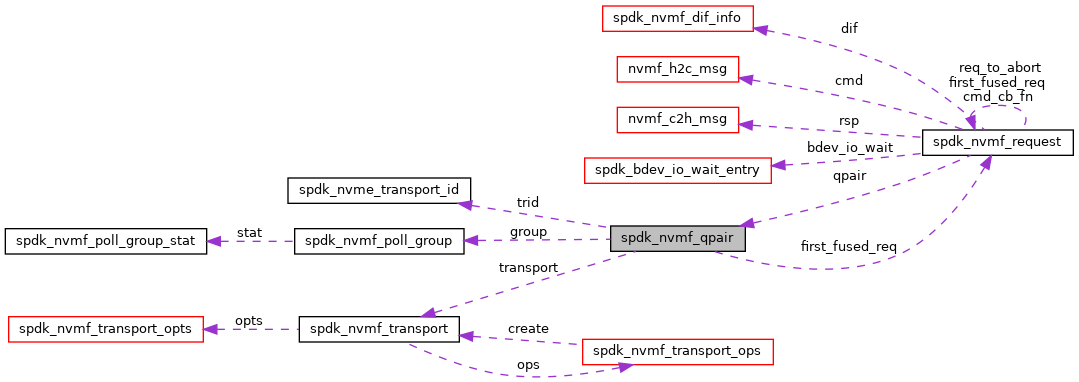
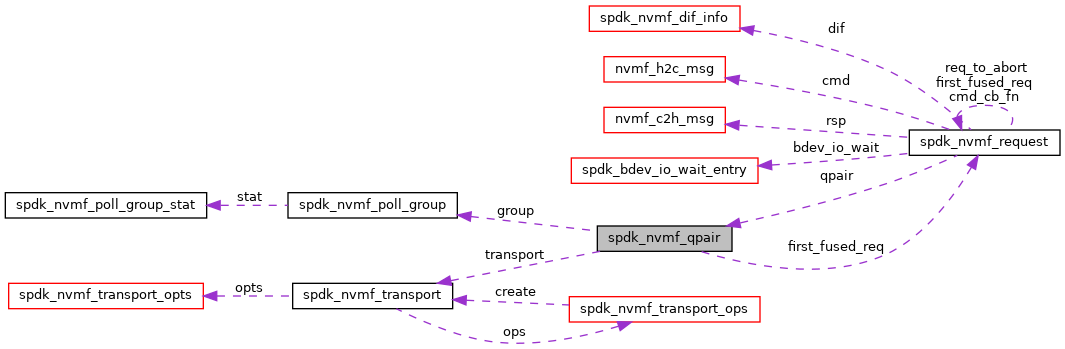
doc: update to b5ba9f4d940a2aff2eabcd3b0973e80029772df8

diff --git a/doc/structspdk__nvmf__qpair.html b/doc/structspdk__nvmf__qpair.html
@@ -153,18 +153,17 @@ Collaboration diagram for spdk_nvmf_qpair:</div>
 <div class="dyncontent">
 <div class="center"><img src="structspdk__nvmf__qpair__coll__graph.png" border="0" usemap="#spdk__nvmf__qpair_coll__map" alt="Collaboration graph"/></div>
 <map name="spdk__nvmf__qpair_coll__map" id="spdk__nvmf__qpair_coll__map">
-<area shape="rect"  title=" " alt="" coords="611,225,745,252"/>
-<area shape="rect"  href="structspdk__nvmf__request.html" title=" " alt="" coords="923,129,1073,156"/>
-<area shape="rect"  href="structspdk__nvme__transport__id.html" title="NVMe transport identifier." alt="" coords="288,177,471,204"/>
-<area shape="rect"  href="structspdk__nvmf__poll__group.html" title=" " alt="" coords="295,228,464,255"/>
-<area shape="rect"  href="structspdk__nvmf__poll__group__stat.html" title=" " alt="" coords="5,228,207,255"/>
-<area shape="rect"  href="structspdk__nvmf__dif__info.html" title=" " alt="" coords="603,5,753,32"/>
-<area shape="rect"  href="unionnvmf__h2c__msg.html" title=" " alt="" coords="617,56,739,83"/>
-<area shape="rect"  href="unionnvmf__c2h__msg.html" title=" " alt="" coords="617,107,739,133"/>
-<area shape="rect"  href="structspdk__bdev__io__wait__entry.html" title="Structure to register a callback when an spdk_bdev_io becomes available." alt="" coords="585,157,771,184"/>
-<area shape="rect"  href="structspdk__nvmf__transport.html" title=" " alt="" coords="299,316,459,343"/>
-<area shape="rect"  href="structspdk__nvmf__transport__ops.html" title=" " alt="" coords="583,339,773,365"/>
-<area shape="rect"  href="structspdk__nvmf__transport__opts.html" title=" " alt="" coords="9,316,203,343"/>
+<area shape="rect"  title=" " alt="" coords="597,225,732,252"/>
+<area shape="rect"  href="structspdk__nvmf__request.html" title=" " alt="" coords="909,129,1060,156"/>
+<area shape="rect"  href="structspdk__nvmf__poll__group.html" title=" " alt="" coords="288,192,457,219"/>
+<area shape="rect"  href="structspdk__nvmf__poll__group__stat.html" title=" " alt="" coords="5,192,207,219"/>
+<area shape="rect"  href="structspdk__nvmf__dif__info.html" title=" " alt="" coords="589,5,740,32"/>
+<area shape="rect"  href="unionnvmf__h2c__msg.html" title=" " alt="" coords="604,56,725,83"/>
+<area shape="rect"  href="unionnvmf__c2h__msg.html" title=" " alt="" coords="604,107,725,133"/>
+<area shape="rect"  href="structspdk__bdev__io__wait__entry.html" title="Structure to register a callback when an spdk_bdev_io becomes available." alt="" coords="571,157,758,184"/>
+<area shape="rect"  href="structspdk__nvmf__transport.html" title=" " alt="" coords="293,283,453,309"/>
+<area shape="rect"  href="structspdk__nvmf__transport__ops.html" title=" " alt="" coords="569,296,760,323"/>
+<area shape="rect"  href="structspdk__nvmf__transport__opts.html" title=" " alt="" coords="9,283,203,309"/>
 </map>
 <center><span class="legend">[<a target="top" href="graph_legend.html">legend</a>]</span></center></div>
 <table class="memberdecls">
@@ -197,9 +196,6 @@ struct spdk_nvmf_ctrlr *&#160;</td><td class="memItemRight" valign="bottom"><b>c
 <tr class="memitem:a993b86bef0d64d282753f924cdb6de02"><td class="memItemLeft" align="right" valign="top"><a id="a993b86bef0d64d282753f924cdb6de02"></a>
 struct <a class="el" href="structspdk__nvmf__poll__group.html">spdk_nvmf_poll_group</a> *&#160;</td><td class="memItemRight" valign="bottom"><b>group</b></td></tr>
 <tr class="separator:a993b86bef0d64d282753f924cdb6de02"><td class="memSeparator" colspan="2">&#160;</td></tr>
-<tr class="memitem:a73528585c34571896b7cdf5cc75e5ab9"><td class="memItemLeft" align="right" valign="top"><a id="a73528585c34571896b7cdf5cc75e5ab9"></a>
-const struct <a class="el" href="structspdk__nvme__transport__id.html">spdk_nvme_transport_id</a> *&#160;</td><td class="memItemRight" valign="bottom"><b>trid</b></td></tr>
-<tr class="separator:a73528585c34571896b7cdf5cc75e5ab9"><td class="memSeparator" colspan="2">&#160;</td></tr>
 <tr class="memitem:aecc6801664b3940edae8ee58e8438c33"><td class="memItemLeft" align="right" valign="top"><a id="aecc6801664b3940edae8ee58e8438c33"></a>
 uint16_t&#160;</td><td class="memItemRight" valign="bottom"><b>qid</b></td></tr>
 <tr class="separator:aecc6801664b3940edae8ee58e8438c33"><td class="memSeparator" colspan="2">&#160;</td></tr>

diff --git a/doc/bdev_8h.html b/doc/bdev_8h.html
@@ -268,9 +268,9 @@ Enumerations</h2></td></tr>
 </table><table class="memberdecls">
 <tr class="heading"><td colspan="2"><h2 class="groupheader"><a name="func-members"></a>
 Functions</h2></td></tr>
-<tr class="memitem:ae5b45f98f76615c2c9ee1fd3d11149b6"><td class="memItemLeft" align="right" valign="top"><a id="ae5b45f98f76615c2c9ee1fd3d11149b6"></a>
-void&#160;</td><td class="memItemRight" valign="bottom"><b>spdk_bdev_get_opts</b> (struct <a class="el" href="structspdk__bdev__opts.html">spdk_bdev_opts</a> *opts)</td></tr>
-<tr class="separator:ae5b45f98f76615c2c9ee1fd3d11149b6"><td class="memSeparator" colspan="2">&#160;</td></tr>
+<tr class="memitem:ab0c4412ed5d0e1869620965304d36b7f"><td class="memItemLeft" align="right" valign="top">void&#160;</td><td class="memItemRight" valign="bottom"><a class="el" href="bdev_8h.html#ab0c4412ed5d0e1869620965304d36b7f">spdk_bdev_get_opts</a> (struct <a class="el" href="structspdk__bdev__opts.html">spdk_bdev_opts</a> *opts, size_t opts_size)</td></tr>
+<tr class="memdesc:ab0c4412ed5d0e1869620965304d36b7f"><td class="mdescLeft">&#160;</td><td class="mdescRight">Get the options for the bdev module.  <a href="#ab0c4412ed5d0e1869620965304d36b7f">More...</a><br /></td></tr>
+<tr class="separator:ab0c4412ed5d0e1869620965304d36b7f"><td class="memSeparator" colspan="2">&#160;</td></tr>
 <tr class="memitem:a828be2f36a5c1e343488130c457f5bf5"><td class="memItemLeft" align="right" valign="top"><a id="a828be2f36a5c1e343488130c457f5bf5"></a>
 int&#160;</td><td class="memItemRight" valign="bottom"><b>spdk_bdev_set_opts</b> (struct <a class="el" href="structspdk__bdev__opts.html">spdk_bdev_opts</a> *opts)</td></tr>
 <tr class="separator:a828be2f36a5c1e343488130c457f5bf5"><td class="memSeparator" colspan="2">&#160;</td></tr>
@@ -1541,6 +1541,43 @@ int&#160;</td><td class="memItemRight" valign="bottom"><b>spdk_bdev_set_opts</b>
   </dd>
 </dl>
 <dl class="section return"><dt>Returns</dt><dd>Optimal I/O boundary in blocks that should not be crossed for best performance, or 0 if no optimal boundary is reported. </dd></dl>
+
+</div>
+</div>
+<a id="ab0c4412ed5d0e1869620965304d36b7f"></a>
+<h2 class="memtitle"><span class="permalink"><a href="#ab0c4412ed5d0e1869620965304d36b7f">&#9670;&nbsp;</a></span>spdk_bdev_get_opts()</h2>
+
+<div class="memitem">
+<div class="memproto">
+      <table class="memname">
+        <tr>
+          <td class="memname">void spdk_bdev_get_opts </td>
+          <td>(</td>
+          <td class="paramtype">struct <a class="el" href="structspdk__bdev__opts.html">spdk_bdev_opts</a> *&#160;</td>
+          <td class="paramname"><em>opts</em>, </td>
+        </tr>
+        <tr>
+          <td class="paramkey"></td>
+          <td></td>
+          <td class="paramtype">size_t&#160;</td>
+          <td class="paramname"><em>opts_size</em>&#160;</td>
+        </tr>
+        <tr>
+          <td></td>
+          <td>)</td>
+          <td></td><td></td>
+        </tr>
+      </table>
+</div><div class="memdoc">
+
+<p>Get the options for the bdev module. </p>
+<dl class="params"><dt>Parameters</dt><dd>
+  <table class="params">
+    <tr><td class="paramname">opts</td><td>Output parameter for options. </td></tr>
+    <tr><td class="paramname">opts_size</td><td>sizeof(*opts) </td></tr>
+  </table>
+  </dd>
+</dl>
 
 </div>
 </div>

diff --git a/doc/changelog.html b/doc/changelog.html
@@ -147,6 +147,8 @@ $(document).ready(function(){initNavTree('changelog.html','');});
 <div class="contents">
 <div class="textblock"><h1><a class="anchor" id="changelog-v21-01"></a>
 v21.01: (Upcoming Release)</h1>
+<h2>bdev</h2>
+<p>An <code>opts_size</code>element was added in the <code><a class="el" href="structspdk__bdev__opts.html">spdk_bdev_opts</a></code> structure to solve the ABI compatiblity issue between different SPDK version. And also add <code>opts_size</code> parameter in spdk_bdev_get_opts function.</p>
 <h2>event</h2>
 <p>The pci_whitelist and pci_blacklist members of struct <a class="el" href="structspdk__app__opts.html" title="Event framework initialization options.">spdk_app_opts</a> have been deprecated. The new members are named pci_allowed and pci_blocked respectively.</p>
 <p>The &ndash;pci-blacklist command line option has been deprecated, replaced with &ndash;pci-blocked.</p>
@@ -839,7 +841,7 @@ v18.10: Dynamic memory allocation, Crypto Virtual Bdev, jsonrpc-client, SPDKCLI 
 v18.07: Raid, Infrastructure Improvements, Bug Fixes</h1>
 <h2>bdev</h2>
 <p>A new public header file <a class="el" href="bdev__module_8h.html" title="Block Device Module Interface.">bdev_module.h</a> has been introduced to facilitate the development of new bdev modules. This header includes an interface for the <a class="el" href="structspdk__bdev__part.html">spdk_bdev_part</a> and spdk_bdev_part_base objects to enable the creation of multiple virtual bdevs on top of a single base bdev and should act as the primary API for module authors.</p>
-<p>spdk_bdev_get_opts() and spdk_bdev_set_opts() were added to set bdev-wide options.</p>
+<p><a class="el" href="bdev_8h.html#ab0c4412ed5d0e1869620965304d36b7f" title="Get the options for the bdev module.">spdk_bdev_get_opts()</a> and spdk_bdev_set_opts() were added to set bdev-wide options.</p>
 <p>A mechanism for handling out of memory condition errors (ENOMEM) returned from I/O submission requests at the bdev layer has been added. See <a class="el" href="bdev_8h.html#acc4beee18ded7837fa92bd7c34e7ef2e" title="Add an entry into the calling thread&#39;s queue to be notified when an spdk_bdev_io becomes available.">spdk_bdev_queue_io_wait()</a>.</p>
 <p>The <a class="el" href="bdev_8h.html#ab1ba28ba382edd1d792d51a054eb3aa2" title="Return I/O statistics for this channel.">spdk_bdev_get_io_stat()</a> function now returns cumulative totals instead of resetting on each call. This allows multiple callers to query I/O statistics without conflicting with each other. Existing users will need to adjust their code to record the previous I/O statistics to calculate the delta between calls.</p>
 <p>I/O queue depth tracking and samples options have been added. See <a class="el" href="bdev_8h.html#a471f32e8948203f7aaf320396a1ae7c9" title="Get the most recently measured queue depth from a bdev.">spdk_bdev_get_qd()</a>, <a class="el" href="bdev_8h.html#adab852ac707702316bf869a3d7dfdc85" title="Get the queue depth polling period.">spdk_bdev_get_qd_sampling_period()</a>, and <a class="el" href="bdev_8h.html#a9d37ad1d4da0bcb51ada76dbe4f4ce15" title="Enable or disable queue depth sampling for this bdev.">spdk_bdev_set_qd_sampling_period()</a>.</p>

diff --git a/doc/structspdk__nvmf__request.html b/doc/structspdk__nvmf__request.html
@@ -153,8 +153,8 @@ Collaboration diagram for spdk_nvmf_request:</div>
 <div class="dyncontent">
 <div class="center"><img src="structspdk__nvmf__request__coll__graph.png" border="0" usemap="#spdk__nvmf__request_coll__map" alt="Collaboration graph"/></div>
 <map name="spdk__nvmf__request_coll__map" id="spdk__nvmf__request_coll__map">
-<area shape="rect"  title=" " alt="" coords="723,312,873,339"/>
-<area shape="rect"  href="structspdk__nvmf__qpair.html" title=" " alt="" coords="1039,193,1173,220"/>
+<area shape="rect"  title=" " alt="" coords="716,312,867,339"/>
+<area shape="rect"  href="structspdk__nvmf__qpair.html" title=" " alt="" coords="1025,223,1160,249"/>
 <area shape="rect"  href="structspdk__nvmf__dif__info.html" title=" " alt="" coords="399,68,550,95"/>
 <area shape="rect"  href="structspdk__dif__ctx.html" title="DIF context information." alt="" coords="69,5,173,32"/>
 <area shape="rect"  href="unionnvmf__h2c__msg.html" title=" " alt="" coords="414,209,535,236"/>
@@ -167,9 +167,8 @@ Collaboration diagram for spdk_nvmf_request:</div>
 <area shape="rect"  href="structspdk__nvme__cpl.html" title="Completion queue entry." alt="" coords="59,340,182,367"/>
 <area shape="rect"  href="structspdk__nvmf__fabric__prop__get__rsp.html" title=" " alt="" coords="33,391,208,433"/>
 <area shape="rect"  href="structspdk__nvmf__fabric__connect__rsp.html" title=" " alt="" coords="9,457,232,484"/>
-<area shape="rect"  href="structspdk__nvme__transport__id.html" title="NVMe transport identifier." alt="" coords="707,92,889,119"/>
-<area shape="rect"  href="structspdk__nvmf__poll__group.html" title=" " alt="" coords="713,143,883,169"/>
-<area shape="rect"  href="structspdk__nvmf__transport.html" title=" " alt="" coords="718,193,878,220"/>
+<area shape="rect"  href="structspdk__nvmf__poll__group.html" title=" " alt="" coords="707,143,876,169"/>
+<area shape="rect"  href="structspdk__nvmf__transport.html" title=" " alt="" coords="711,193,871,220"/>
 <area shape="rect"  href="structspdk__bdev__io__wait__entry.html" title="Structure to register a callback when an spdk_bdev_io becomes available." alt="" coords="381,457,568,484"/>
 <area shape="rect"  href="structspdk__bdev.html" title=" " alt="" coords="75,508,167,535"/>
 </map>

diff --git a/doc/structspdk__bdev__opts.html b/doc/structspdk__bdev__opts.html
@@ -159,7 +159,28 @@ uint32_t&#160;</td><td class="memItemRight" valign="bottom"><b>bdev_io_cache_siz
 <tr class="memitem:aaeaa69bcf692e3f54cd75969007dd5e1"><td class="memItemLeft" align="right" valign="top"><a id="aaeaa69bcf692e3f54cd75969007dd5e1"></a>
 bool&#160;</td><td class="memItemRight" valign="bottom"><b>bdev_auto_examine</b></td></tr>
 <tr class="separator:aaeaa69bcf692e3f54cd75969007dd5e1"><td class="memSeparator" colspan="2">&#160;</td></tr>
+<tr class="memitem:a8bc8895a73d982fe8c5bc456aeccab49"><td class="memItemLeft" align="right" valign="top">size_t&#160;</td><td class="memItemRight" valign="bottom"><a class="el" href="structspdk__bdev__opts.html#a8bc8895a73d982fe8c5bc456aeccab49">opts_size</a></td></tr>
+<tr class="memdesc:a8bc8895a73d982fe8c5bc456aeccab49"><td class="mdescLeft">&#160;</td><td class="mdescRight">The size of <a class="el" href="structspdk__bdev__opts.html">spdk_bdev_opts</a> according to the caller of this library is used for ABI compatibility.  <a href="#a8bc8895a73d982fe8c5bc456aeccab49">More...</a><br /></td></tr>
+<tr class="separator:a8bc8895a73d982fe8c5bc456aeccab49"><td class="memSeparator" colspan="2">&#160;</td></tr>
 </table>
+<h2 class="groupheader">Field Documentation</h2>
+<a id="a8bc8895a73d982fe8c5bc456aeccab49"></a>
+<h2 class="memtitle"><span class="permalink"><a href="#a8bc8895a73d982fe8c5bc456aeccab49">&#9670;&nbsp;</a></span>opts_size</h2>
+
+<div class="memitem">
+<div class="memproto">
+      <table class="memname">
+        <tr>
+          <td class="memname">size_t spdk_bdev_opts::opts_size</td>
+        </tr>
+      </table>
+</div><div class="memdoc">
+
+<p>The size of <a class="el" href="structspdk__bdev__opts.html">spdk_bdev_opts</a> according to the caller of this library is used for ABI compatibility. </p>
+<p>The library uses this field to know how many fields in this structure are valid. And the library will populate any remaining fields with default values. New added fields should be put at the end of the struct. </p>
+
+</div>
+</div>
 <hr/>The documentation for this struct was generated from the following file:<ul>
 <li><a class="el" href="bdev_8h.html">bdev.h</a></li>
 </ul>

diff --git a/doc/search/all_f.js b/doc/search/all_f.js
@@ -11,6 +11,6 @@ var searchData=
   ['optimal_5fio_5fboundary',['optimal_io_boundary',['../structspdk__bdev.html#af2dcdd94b1bbfd2709c6040f861819fb',1,'spdk_bdev']]],
   ['optimal_5fopen_5fzones',['optimal_open_zones',['../structspdk__bdev.html#a11b4b1020556bd812c39731b057559f6',1,'spdk_bdev']]],
   ['opts_5finit',['opts_init',['../structspdk__nvmf__transport__ops.html#afa8e71018c357d6f6ea2293e178fe295',1,'spdk_nvmf_transport_ops']]],
-  ['opts_5fsize',['opts_size',['../structspdk__app__opts.html#a2a7cefefd12eac2f22efdc24962da925',1,'spdk_app_opts::opts_size()'],['../structspdk__nvme__ctrlr__opts.html#aad1d8f2afb4a1617023934e770b103de',1,'spdk_nvme_ctrlr_opts::opts_size()'],['../structspdk__nvmf__transport__opts.html#ac720992d2cf8950149ab6db89257c98e',1,'spdk_nvmf_transport_opts::opts_size()'],['../structspdk__sock__opts.html#ac8dbf1e759082939e4fc6318122931e7',1,'spdk_sock_opts::opts_size()']]],
+  ['opts_5fsize',['opts_size',['../structspdk__bdev__opts.html#a8bc8895a73d982fe8c5bc456aeccab49',1,'spdk_bdev_opts::opts_size()'],['../structspdk__app__opts.html#a2a7cefefd12eac2f22efdc24962da925',1,'spdk_app_opts::opts_size()'],['../structspdk__nvme__ctrlr__opts.html#aad1d8f2afb4a1617023934e770b103de',1,'spdk_nvme_ctrlr_opts::opts_size()'],['../structspdk__nvmf__transport__opts.html#ac720992d2cf8950149ab6db89257c98e',1,'spdk_nvmf_transport_opts::opts_size()'],['../structspdk__sock__opts.html#ac8dbf1e759082939e4fc6318122931e7',1,'spdk_sock_opts::opts_size()']]],
   ['ozcs',['ozcs',['../structspdk__nvme__zns__ns__data.html#a37dc6de8bdd87bfeb4019130b6a680a6',1,'spdk_nvme_zns_ns_data']]]
 ];

diff --git a/doc/search/variables_d.js b/doc/search/variables_d.js
@@ -11,6 +11,6 @@ var searchData=
   ['optimal_5fio_5fboundary',['optimal_io_boundary',['../structspdk__bdev.html#af2dcdd94b1bbfd2709c6040f861819fb',1,'spdk_bdev']]],
   ['optimal_5fopen_5fzones',['optimal_open_zones',['../structspdk__bdev.html#a11b4b1020556bd812c39731b057559f6',1,'spdk_bdev']]],
   ['opts_5finit',['opts_init',['../structspdk__nvmf__transport__ops.html#afa8e71018c357d6f6ea2293e178fe295',1,'spdk_nvmf_transport_ops']]],
-  ['opts_5fsize',['opts_size',['../structspdk__app__opts.html#a2a7cefefd12eac2f22efdc24962da925',1,'spdk_app_opts::opts_size()'],['../structspdk__nvme__ctrlr__opts.html#aad1d8f2afb4a1617023934e770b103de',1,'spdk_nvme_ctrlr_opts::opts_size()'],['../structspdk__nvmf__transport__opts.html#ac720992d2cf8950149ab6db89257c98e',1,'spdk_nvmf_transport_opts::opts_size()'],['../structspdk__sock__opts.html#ac8dbf1e759082939e4fc6318122931e7',1,'spdk_sock_opts::opts_size()']]],
+  ['opts_5fsize',['opts_size',['../structspdk__bdev__opts.html#a8bc8895a73d982fe8c5bc456aeccab49',1,'spdk_bdev_opts::opts_size()'],['../structspdk__app__opts.html#a2a7cefefd12eac2f22efdc24962da925',1,'spdk_app_opts::opts_size()'],['../structspdk__nvme__ctrlr__opts.html#aad1d8f2afb4a1617023934e770b103de',1,'spdk_nvme_ctrlr_opts::opts_size()'],['../structspdk__nvmf__transport__opts.html#ac720992d2cf8950149ab6db89257c98e',1,'spdk_nvmf_transport_opts::opts_size()'],['../structspdk__sock__opts.html#ac8dbf1e759082939e4fc6318122931e7',1,'spdk_sock_opts::opts_size()']]],
   ['ozcs',['ozcs',['../structspdk__nvme__zns__ns__data.html#a37dc6de8bdd87bfeb4019130b6a680a6',1,'spdk_nvme_zns_ns_data']]]
 ];

diff --git a/doc/navtreedata.js b/doc/navtreedata.js
@@ -83,12 +83,12 @@ var NAVTREEINDEX =
 "sock_8h.html#aa07f7a676410527883e2f8159ea1bfea",
 "structiscsi__bhs__scsi__req.html#a8623a3a5e0b07243b46d808478dd7e38",
 "structspdk__bdev__io_1_1____bdev__io__internal__fields.html#a538e1a5baf1242b0b41489e4f0f411f9",
-"structspdk__ioat__dma__hw__desc.html#a42785e51b08b0f999ecfb421f8b3bd18",
-"structspdk__nvme__cmd.html",
-"structspdk__nvme__error__information__entry.html#aaedfc50c23d68fd7dd565a655f2be272",
-"structspdk__nvme__registers.html#a5cc56fd2557ed7ffed6b00b3eac5bf31",
-"structspdk__nvme__zns__zone__desc.html#afeb8ea7b89feda9580cd49f61b8de069",
-"structspdk__nvmf__fc__lsdesc__rjt.html#a1d8c3af5045c3aad5d907cf47dac602c",
+"structspdk__ioat__dma__hw__desc.html#a2f407ff378199ea5ca5d3bf96ebd8004",
+"structspdk__nvme__cdata__sgls.html#aeb0624641c9afbcc52613c85910218f1",
+"structspdk__nvme__error__information__entry.html#aad97afea45fc17b3bac3c6829ace7b58",
+"structspdk__nvme__registers.html#a5bf760e2a616ecb3f8d8fd0a64d24e61",
+"structspdk__nvme__zns__zone__desc.html#af1691489a32138132a721cc4a293f27a",
+"structspdk__nvmf__fc__lsdesc__rjt.html#a1d27bc588fcf33b57d6383b57df3240a",
 "structspdk__ocssd__geometry__data.html#ad9b0daa6248be6bb99132912caa05942",
 "structspdk__scsi__pr__in__read__header.html",
 "thread_8h.html#adfddbbbb13145f26741106cb8296a05a",

diff --git a/doc/navtreeindex15.js b/doc/navtreeindex15.js
@@ -55,6 +55,7 @@ var NAVTREEINDEX15 =
 "structspdk__bdev__module_1_1____bdev__module__internal__fields.html#ac487dd3b111bdf81b2b5532ff5fc2f51":[12,0,30,0,1],
 "structspdk__bdev__opts.html":[12,0,31],
 "structspdk__bdev__opts.html#a2b3394a1e777cf622ee485ced25fed62":[12,0,31,2],
+"structspdk__bdev__opts.html#a8bc8895a73d982fe8c5bc456aeccab49":[12,0,31,3],
 "structspdk__bdev__opts.html#aa6a9c463b5391381fcdfdcceca70bcee":[12,0,31,1],
 "structspdk__bdev__opts.html#aaeaa69bcf692e3f54cd75969007dd5e1":[12,0,31,0],
 "structspdk__bdev__part.html":[12,0,32],
@@ -248,6 +249,5 @@ var NAVTREEINDEX15 =
 "structspdk__ioat__dma__hw__desc.html#a1ec8015efe7b4188280525e71a030272":[12,0,58,12],
 "structspdk__ioat__dma__hw__desc.html#a2a7aef287de49e1660476a3bfc0b3d45":[12,0,58,16],
 "structspdk__ioat__dma__hw__desc.html#a2abc2b21682caaaa0d9e112c96f105fa":[12,0,58,15],
-"structspdk__ioat__dma__hw__desc.html#a2af3c46ab0aa8d8ccce5d9e603baf995":[12,0,58,10],
-"structspdk__ioat__dma__hw__desc.html#a2f407ff378199ea5ca5d3bf96ebd8004":[12,0,58,14]
+"structspdk__ioat__dma__hw__desc.html#a2af3c46ab0aa8d8ccce5d9e603baf995":[12,0,58,10]
 };

diff --git a/doc/search/all_13.js b/doc/search/all_13.js
@@ -117,6 +117,7 @@ var searchData=
   ['spdk_5fbdev_5fget_5fnum_5fblocks',['spdk_bdev_get_num_blocks',['../bdev_8h.html#a86568eca8f0b4d0dc9bc59c5138fc7a5',1,'bdev.h']]],
   ['spdk_5fbdev_5fget_5foptimal_5fio_5fboundary',['spdk_bdev_get_optimal_io_boundary',['../bdev_8h.html#aa79625889e23318204d235da36a4fa02',1,'bdev.h']]],
   ['spdk_5fbdev_5fget_5foptimal_5fopen_5fzones',['spdk_bdev_get_optimal_open_zones',['../bdev__zone_8h.html#aa50981e9f75708e66f7174c96cf396f8',1,'bdev_zone.h']]],
+  ['spdk_5fbdev_5fget_5fopts',['spdk_bdev_get_opts',['../bdev_8h.html#ab0c4412ed5d0e1869620965304d36b7f',1,'bdev.h']]],
   ['spdk_5fbdev_5fget_5fproduct_5fname',['spdk_bdev_get_product_name',['../bdev_8h.html#a1cb4d1f8822c30be8c5d9c5dc3e62483',1,'bdev.h']]],
   ['spdk_5fbdev_5fget_5fqd',['spdk_bdev_get_qd',['../bdev_8h.html#a471f32e8948203f7aaf320396a1ae7c9',1,'bdev.h']]],
   ['spdk_5fbdev_5fget_5fqd_5fsampling_5fperiod',['spdk_bdev_get_qd_sampling_period',['../bdev_8h.html#adab852ac707702316bf869a3d7dfdc85',1,'bdev.h']]],

diff --git a/doc/search/functions_0.js b/doc/search/functions_0.js
@@ -79,6 +79,7 @@ var searchData=
   ['spdk_5fbdev_5fget_5fnum_5fblocks',['spdk_bdev_get_num_blocks',['../bdev_8h.html#a86568eca8f0b4d0dc9bc59c5138fc7a5',1,'bdev.h']]],
   ['spdk_5fbdev_5fget_5foptimal_5fio_5fboundary',['spdk_bdev_get_optimal_io_boundary',['../bdev_8h.html#aa79625889e23318204d235da36a4fa02',1,'bdev.h']]],
   ['spdk_5fbdev_5fget_5foptimal_5fopen_5fzones',['spdk_bdev_get_optimal_open_zones',['../bdev__zone_8h.html#aa50981e9f75708e66f7174c96cf396f8',1,'bdev_zone.h']]],
+  ['spdk_5fbdev_5fget_5fopts',['spdk_bdev_get_opts',['../bdev_8h.html#ab0c4412ed5d0e1869620965304d36b7f',1,'bdev.h']]],
   ['spdk_5fbdev_5fget_5fproduct_5fname',['spdk_bdev_get_product_name',['../bdev_8h.html#a1cb4d1f8822c30be8c5d9c5dc3e62483',1,'bdev.h']]],
   ['spdk_5fbdev_5fget_5fqd',['spdk_bdev_get_qd',['../bdev_8h.html#a471f32e8948203f7aaf320396a1ae7c9',1,'bdev.h']]],
   ['spdk_5fbdev_5fget_5fqd_5fsampling_5fperiod',['spdk_bdev_get_qd_sampling_period',['../bdev_8h.html#adab852ac707702316bf869a3d7dfdc85',1,'bdev.h']]],

diff --git a/doc/navtreeindex21.js b/doc/navtreeindex21.js
@@ -1,5 +1,6 @@
 var NAVTREEINDEX21 =
 {
+"structspdk__nvmf__fc__lsdesc__rjt.html#a1d27bc588fcf33b57d6383b57df3240a":[12,0,214,0],
 "structspdk__nvmf__fc__lsdesc__rjt.html#a1d8c3af5045c3aad5d907cf47dac602c":[12,0,214,4],
 "structspdk__nvmf__fc__lsdesc__rjt.html#a2db8aba52f48bdbb56112f7489fd0e5b":[12,0,214,6],
 "structspdk__nvmf__fc__lsdesc__rjt.html#a358164651c3b900478f7a5eaf16b5c03":[12,0,214,5],
@@ -51,7 +52,6 @@ var NAVTREEINDEX21 =
 "structspdk__nvmf__qpair.html#a44e9be1f9f7b8607613f1caee777d9f9":[12,0,222,9],
 "structspdk__nvmf__qpair.html#a598e955b75f6ca4576fdad98c43e6487":[12,0,222,7],
 "structspdk__nvmf__qpair.html#a68b1d54cc3ea7e337043f4dabfa9b859":[12,0,222,10],
-"structspdk__nvmf__qpair.html#a73528585c34571896b7cdf5cc75e5ab9":[12,0,222,13],
 "structspdk__nvmf__qpair.html#a993b86bef0d64d282753f924cdb6de02":[12,0,222,5],
 "structspdk__nvmf__qpair.html#abb43234094d4e8bf33c1868563e710dc":[12,0,222,3],
 "structspdk__nvmf__qpair.html#ad96a9ac0798e15ef97e0890d3aabd591":[12,0,222,11],
